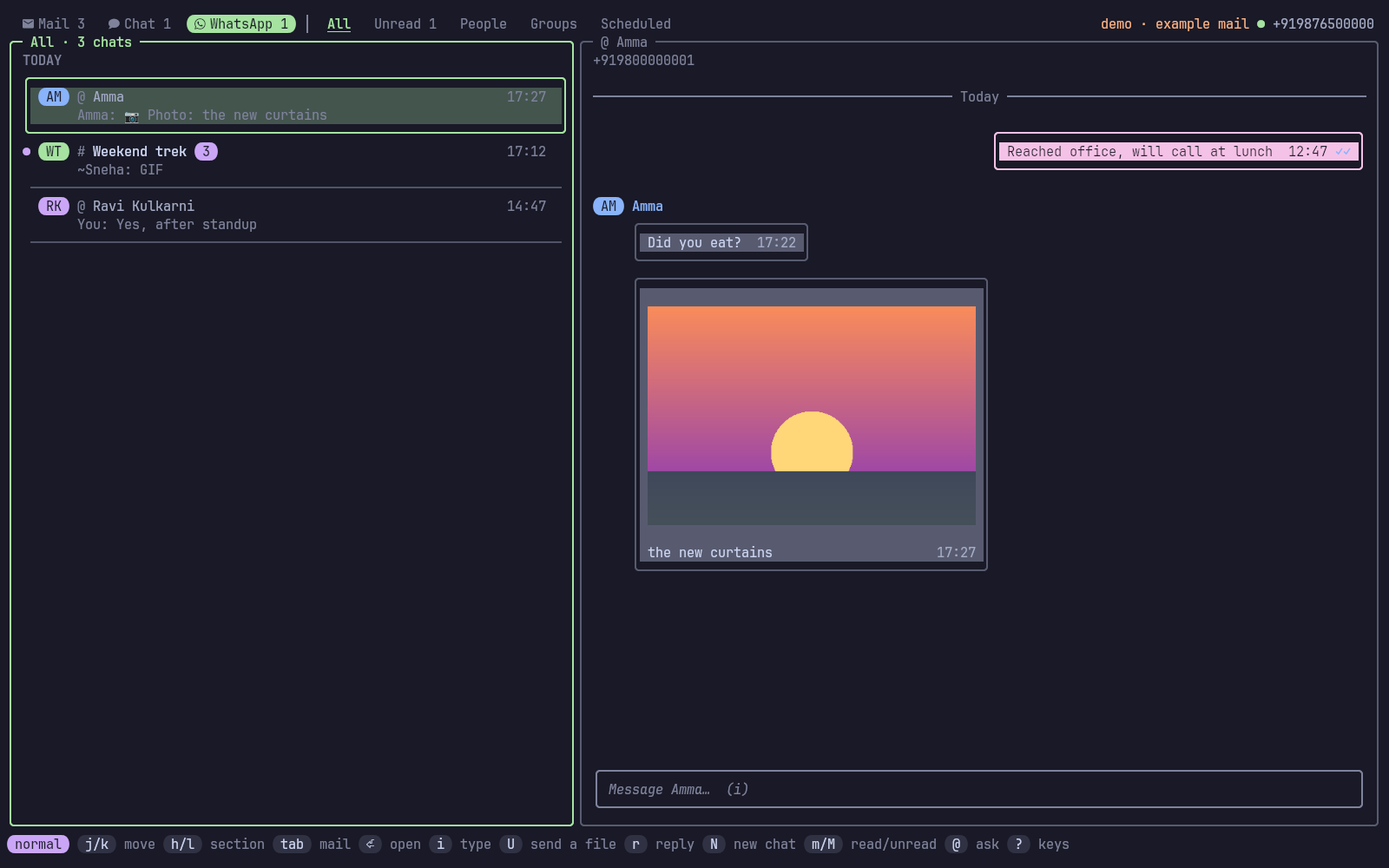
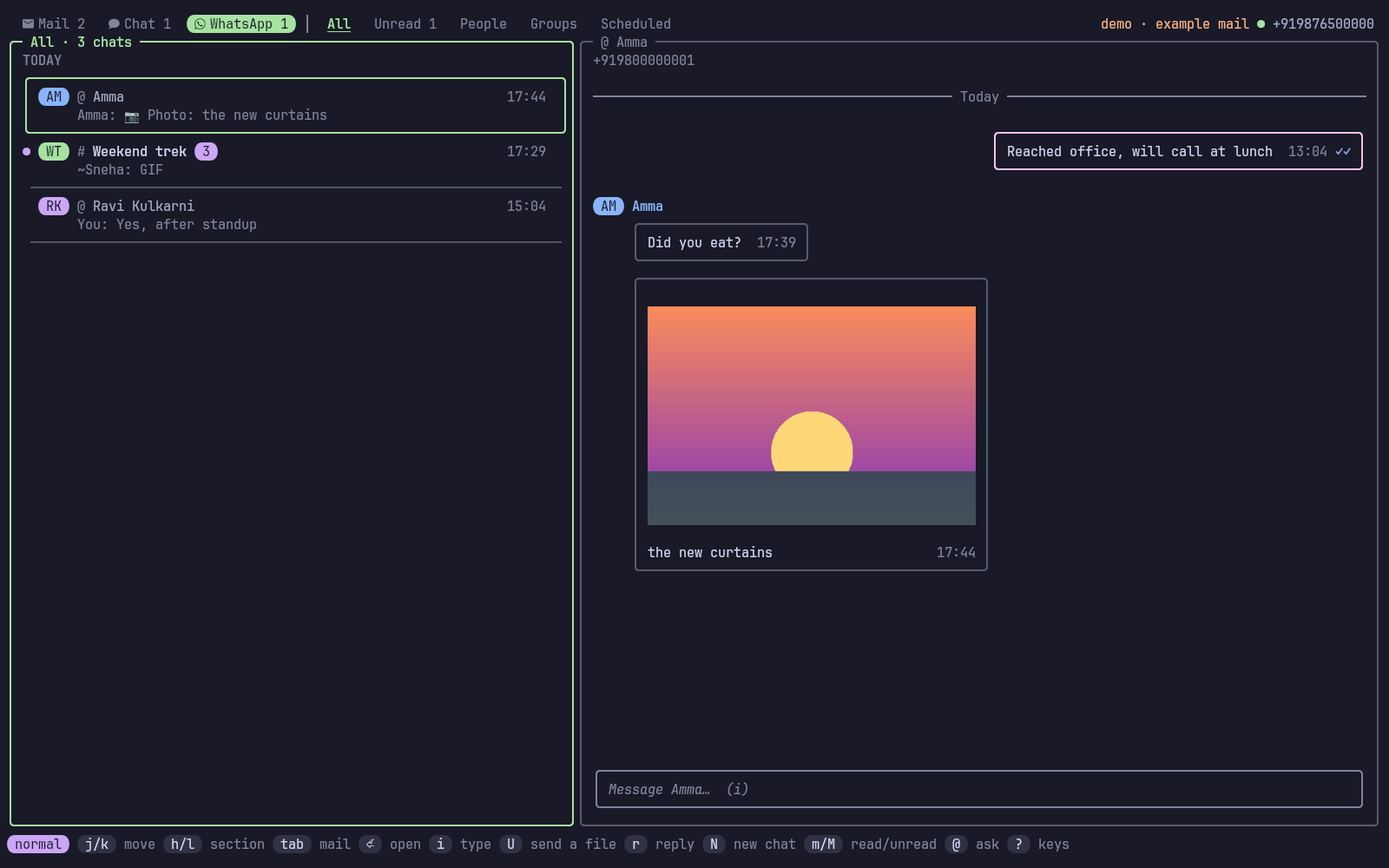
v0.4.3: outlines only, no colour fill on bubbles or the picked row

Changed region(s): [[0.4375, 0.248, 0.7188, 0.651], [0.0, 0.093, 0.4062, 0.155], [0.7188, 0.155, 1.0, 0.186]]

diff --git a/docs/changelog.html b/docs/changelog.html
@@ -19,8 +19,8 @@
 <a class="brand" href="index.html"><img src="assets/logo.svg" alt=""><span>sandesh <small>संदेश</small></span></a>
 <nav><a href="index.html" class="">Overview</a><a href="changelog.html" class="on">Changelog</a><a href="adr/index.html" class=" hide">Decisions</a><a class="gh" href="https://github.com/Theyashsawarkar/sandesh">GitHub ↗</a></nav></div></header>
 
-<div class="wrap"><aside class="toc"><b>On this page</b><a class="l2" href="#v042">v0.4.2</a><a class="l2" href="#v041">v0.4.1</a><a class="l2" href="#v040">v0.4.0</a><a class="l2" href="#v030">v0.3.0</a><a class="l2" href="#v020">v0.2.0</a><a class="l2" href="#v010">v0.1.0</a></aside><article>
-<h2>Changelog</h2><p>Every change to sandesh, newest first. Releases are git tags (<a href="https://github.com/Theyashsawarkar/sandesh/tags">all tags</a>, <a href="https://github.com/Theyashsawarkar/sandesh/releases">GitHub releases</a>); the source of this page is <a href="https://github.com/Theyashsawarkar/sandesh/blob/main/CHANGELOG.md">CHANGELOG.md</a>.</p><section class="release"><h2 id="v042">v0.4.2<span class="date">2026-11-02</span><a class="tag" href="https://github.com/Theyashsawarkar/sandesh/releases/tag/v0.4.2">release ↗</a></h2><ul><li><strong>Really rounded</strong>: bubbles and the picked list row get rounded borders (╭ ╮ ╰ ╯) in their colour; the half-block corners of v0.4.1 were too small to read as round.</li></ul></section><section class="release"><h2 id="v041">v0.4.1<span class="date">2026-11-02</span><a class="tag" href="https://github.com/Theyashsawarkar/sandesh/releases/tag/v0.4.1">release ↗</a></h2><ul><li><strong>Fixed: sending files on WhatsApp</strong>: <code>U</code> said "files isn't on WhatsApp yet" (a leftover guard); it sends now, and <code>v</code> / <code>V</code> open and save WhatsApp files. The key bar shows <code>U send a file</code>.</li><li><strong>Rounded</strong>: one-line messages are pills, longer ones rounded blocks; the picked list row is rounded too, and keeps its colours (name capsules showed as dark blobs on it).</li><li><strong>Switching places</strong>: <code>Shift+Tab</code> goes back (Mail ← Chat ← WhatsApp), <code>Alt+m</code> / <code>Alt+c</code> / <code>Alt+w</code> go straight to one.</li><li><strong>Picking several, marking all read</strong>: <code>x</code> picks chats too, <code>Ctrl+x</code> picks the whole list (again clears), <code>m</code> / <code>M</code> act on what's picked, and <code>Alt+r</code> marks everything in the list read.</li></ul></section><section class="release"><h2 id="v040">v0.4.0<span class="date">2026-11-02</span><a class="tag" href="https://github.com/Theyashsawarkar/sandesh/releases/tag/v0.4.0">release ↗</a></h2><ul><li><strong>Filled bubbles</strong>: chat and WhatsApp messages are filled blocks, yours in the accent colour, with the time and ticks inside; one name per run.</li><li><strong>One panel for the lists</strong>: mail, chat and WhatsApp rows divided by hairlines, the picked one filled in the tab's colour (<code>list_style</code>, replacing <code>chat_list</code>; <code>chat_list = &quot;cards&quot;</code> still works).</li><li><strong>Mail threads fold</strong>: read messages to one line, a long run to one line in all.</li><li><strong>One frame for the message box</strong>: the reply and the files go inside it.</li><li><strong>A clearer approval</strong>: "Claude Code wants to send a mail to …", the reason as a badge, the agent's own <code>why</code> (new on <code>mail_send</code>, <code>chat_send</code> and <code>whatsapp_send</code>) and <code>y send in 10s</code>.</li></ul></section><section class="release"><h2 id="v030">v0.3.0<span class="date">2026-11-02</span><a class="tag" href="https://github.com/Theyashsawarkar/sandesh/releases/tag/v0.3.0">release ↗</a></h2><ul><li><strong>Screenshots</strong> in the README and on the website (from <code>sandesh demo</code>).</li><li><strong>Ticks</strong>: ✓ sent, ✓✓ delivered and blue ✓✓ read beside your WhatsApp messages, from the phone's receipts and its history.</li><li><strong>Paste a screenshot</strong>: <code>Ctrl+v</code> while typing attaches a copied image; files about to go show as small previews above the box.</li><li><strong>Pictures full size</strong>: <code>Space</code> (or <code>Enter</code>) on a picked photo or GIF fills the screen; <code>h</code>/<code>l</code> go through the chat's pictures.</li><li><strong>Compact chat list</strong>: two rows per chat instead of a box, so about twice as many fit; <code>chat_list = &quot;cards&quot;</code> brings the boxes back.</li><li><strong>The undo window where you look</strong>: a message counting down to send, or waiting for approval, shows under the conversation; <code>z</code> cancels the open chat's own first.</li><li><strong>Clearer</strong>: the unread count sits on Unread, not All; the list title says "chats"; a one-to-one chat shows the number, not "You, Amma · 2 people"; the hint under the message box, which repeated the key bar, is gone.</li></ul>
+<div class="wrap"><aside class="toc"><b>On this page</b><a class="l2" href="#v043">v0.4.3</a><a class="l2" href="#v042">v0.4.2</a><a class="l2" href="#v041">v0.4.1</a><a class="l2" href="#v040">v0.4.0</a><a class="l2" href="#v030">v0.3.0</a><a class="l2" href="#v020">v0.2.0</a><a class="l2" href="#v010">v0.1.0</a></aside><article>
+<h2>Changelog</h2><p>Every change to sandesh, newest first. Releases are git tags (<a href="https://github.com/Theyashsawarkar/sandesh/tags">all tags</a>, <a href="https://github.com/Theyashsawarkar/sandesh/releases">GitHub releases</a>); the source of this page is <a href="https://github.com/Theyashsawarkar/sandesh/blob/main/CHANGELOG.md">CHANGELOG.md</a>.</p><section class="release"><h2 id="v043">v0.4.3<span class="date">2026-11-02</span><a class="tag" href="https://github.com/Theyashsawarkar/sandesh/releases/tag/v0.4.3">release ↗</a></h2><ul><li><strong>Quieter</strong>: bubbles and the picked list row lose their colour fill: just a rounded outline, plain text, and the time dim inside the bubble.</li></ul></section><section class="release"><h2 id="v042">v0.4.2<span class="date">2026-11-02</span><a class="tag" href="https://github.com/Theyashsawarkar/sandesh/releases/tag/v0.4.2">release ↗</a></h2><ul><li><strong>Really rounded</strong>: bubbles and the picked list row get rounded borders (╭ ╮ ╰ ╯) in their colour; the half-block corners of v0.4.1 were too small to read as round.</li></ul></section><section class="release"><h2 id="v041">v0.4.1<span class="date">2026-11-02</span><a class="tag" href="https://github.com/Theyashsawarkar/sandesh/releases/tag/v0.4.1">release ↗</a></h2><ul><li><strong>Fixed: sending files on WhatsApp</strong>: <code>U</code> said "files isn't on WhatsApp yet" (a leftover guard); it sends now, and <code>v</code> / <code>V</code> open and save WhatsApp files. The key bar shows <code>U send a file</code>.</li><li><strong>Rounded</strong>: one-line messages are pills, longer ones rounded blocks; the picked list row is rounded too, and keeps its colours (name capsules showed as dark blobs on it).</li><li><strong>Switching places</strong>: <code>Shift+Tab</code> goes back (Mail ← Chat ← WhatsApp), <code>Alt+m</code> / <code>Alt+c</code> / <code>Alt+w</code> go straight to one.</li><li><strong>Picking several, marking all read</strong>: <code>x</code> picks chats too, <code>Ctrl+x</code> picks the whole list (again clears), <code>m</code> / <code>M</code> act on what's picked, and <code>Alt+r</code> marks everything in the list read.</li></ul></section><section class="release"><h2 id="v040">v0.4.0<span class="date">2026-11-02</span><a class="tag" href="https://github.com/Theyashsawarkar/sandesh/releases/tag/v0.4.0">release ↗</a></h2><ul><li><strong>Filled bubbles</strong>: chat and WhatsApp messages are filled blocks, yours in the accent colour, with the time and ticks inside; one name per run.</li><li><strong>One panel for the lists</strong>: mail, chat and WhatsApp rows divided by hairlines, the picked one filled in the tab's colour (<code>list_style</code>, replacing <code>chat_list</code>; <code>chat_list = &quot;cards&quot;</code> still works).</li><li><strong>Mail threads fold</strong>: read messages to one line, a long run to one line in all.</li><li><strong>One frame for the message box</strong>: the reply and the files go inside it.</li><li><strong>A clearer approval</strong>: "Claude Code wants to send a mail to …", the reason as a badge, the agent's own <code>why</code> (new on <code>mail_send</code>, <code>chat_send</code> and <code>whatsapp_send</code>) and <code>y send in 10s</code>.</li></ul></section><section class="release"><h2 id="v030">v0.3.0<span class="date">2026-11-02</span><a class="tag" href="https://github.com/Theyashsawarkar/sandesh/releases/tag/v0.3.0">release ↗</a></h2><ul><li><strong>Screenshots</strong> in the README and on the website (from <code>sandesh demo</code>).</li><li><strong>Ticks</strong>: ✓ sent, ✓✓ delivered and blue ✓✓ read beside your WhatsApp messages, from the phone's receipts and its history.</li><li><strong>Paste a screenshot</strong>: <code>Ctrl+v</code> while typing attaches a copied image; files about to go show as small previews above the box.</li><li><strong>Pictures full size</strong>: <code>Space</code> (or <code>Enter</code>) on a picked photo or GIF fills the screen; <code>h</code>/<code>l</code> go through the chat's pictures.</li><li><strong>Compact chat list</strong>: two rows per chat instead of a box, so about twice as many fit; <code>chat_list = &quot;cards&quot;</code> brings the boxes back.</li><li><strong>The undo window where you look</strong>: a message counting down to send, or waiting for approval, shows under the conversation; <code>z</code> cancels the open chat's own first.</li><li><strong>Clearer</strong>: the unread count sits on Unread, not All; the list title says "chats"; a one-to-one chat shows the number, not "You, Amma · 2 people"; the hint under the message box, which repeated the key bar, is gone.</li></ul>
 <ul><li><strong>Photos, GIFs and files on WhatsApp</strong>: they show in the conversation (on kitty as real pictures, in tmux popups too, and GIFs play; elsewhere as coloured blocks; the <code>images</code> option chooses), and <code>Ctrl+o</code> while typing or <code>U</code> sends them, with the text as the first file's caption.</li><li><strong>Link WhatsApp from its tab</strong>: <code>L</code> shows the QR code, <code>P</code> a phone code, and a bar follows the sync, with no separate terminal.</li><li><strong><code>send_policy = &quot;trust&quot;</code> and <code>ask_first</code></strong>: agents send without asking unless you told them to ask, after an undo window with a notification that can cancel it (ADR 6). The approval screen is redesigned.</li><li><strong>The chat box grows</strong>: long messages wrap and the box gets taller, and Enter sends and keeps you typing. The active tab is a filled pill in its own colour.</li><li><strong>Fixed</strong>: WhatsApp names and mentions showing as numbers; <code>@</code> and the AI keys not finding <code>claude</code> or <code>sandesh</code> from a tmux popup.</li></ul>
 <ul><li><strong>WhatsApp</strong>: <code>sandesh whatsapp link</code> links your WhatsApp as a device (QR code, or <code>--phone</code> for a code to type on the phone), and its chats become a third tab (<code>Tab</code>: Mail → Chat → WhatsApp) with unread counts in <code>sandesh status</code> and the tmux segment, notifications, read receipts and quoted replies. <code>sandesh whatsapp list|read|send|unlink</code> on the command line, <code>whatsapp_chats</code>, <code>whatsapp_read</code> and <code>whatsapp_send</code> for agents. Every send goes through the outbox; an agent's always waits for you, and WhatsApp sends are capped at <code>whatsapp_per_hour</code> (30). Without linking, <code>whatsapp send</code> opens WhatsApp's click-to-chat page with the text typed in instead. Linking isn't allowed by WhatsApp's terms (see the README's WhatsApp section and ADR 5).</li></ul>
 <ul><li><strong>HTML mail, for tables and the like</strong>: <code>mail_send</code> and <code>mail_draft</code> take an optional <code>html</code> (and <code>sandesh mail send</code> an <code>--html FILE</code>). It goes out beside the plain text as <code>multipart/alternative</code>, so mail apps show the HTML and the plain text is still there for those that don't; a reply quotes the thread in the HTML too. Plain text alone can't make a table Gmail shows as one.</li></ul></section><section class="release"><h2 id="v020">v0.2.0<span class="date">2026-10-28</span><a class="tag" href="https://github.com/Theyashsawarkar/sandesh/releases/tag/v0.2.0">release ↗</a></h2><ul><li><strong><code>--tab chat</code></strong>: <code>sandesh --tab chat</code> (and <code>sandesh --popup --tab chat</code>) opens the screen on the chat tab, so a status bar's chat count can open chat and its mail count mail.</li></ul>

diff --git a/docs/index.html b/docs/index.html
@@ -24,8 +24,8 @@
 <div class="sa">संदेश <span>· “message”</span></div>
 <p class="lead">Gmail and Google Chat without leaving the terminal, with an agent that can read, draft and send for you.</p>
 <div class="cta"><a class="btn primary" href="#install">Install</a><a class="btn" href="https://github.com/Theyashsawarkar/sandesh">GitHub ↗</a>
-<a class="btn" href="changelog.html">What's new in v0.4.2</a></div>
-<div class="meta"><span><b>v0.4.2</b> latest</span><span><b>6</b> releases</span><span><b>6</b> decisions recorded</span><span><b>MIT</b> license</span></div>
+<a class="btn" href="changelog.html">What's new in v0.4.3</a></div>
+<div class="meta"><span><b>v0.4.3</b> latest</span><span><b>7</b> releases</span><span><b>6</b> decisions recorded</span><span><b>MIT</b> license</span></div>
 </div><img class="logo" src="assets/logo.svg" alt="sandesh logo"></div></section>
 <div class="wrap"><aside class="toc"><b>On this page</b><a class="l2" href="#features">Features</a><a class="l2" href="#install">Install</a><a class="l2" href="#getting-started">Getting started</a><a class="l2" href="#the-screen">The screen</a><a class="l2" href="#keys">Keys</a><a class="l2" href="#sending-later">Sending later</a><a class="l2" href="#sent-mail">Sent mail</a><a class="l2" href="#older-mail">Older mail</a><a class="l2" href="#files">Files</a><a class="l2" href="#whatsapp">WhatsApp</a><a class="l2" href="#claude-and-other-agents">Claude and other agents</a><a class="l2" href="#sending-safely">Sending safely</a><a class="l2" href="#command-line">Command line</a><a class="l2" href="#using-it-inside-tmux">Using it inside tmux</a><a class="l2" href="#configuration">Configuration</a><a class="l2" href="#files-and-environment">Files and environment</a><a class="l2" href="#how-it-works">How it works</a><a class="l2" href="#troubleshooting">Troubleshooting</a><a class="l2" href="#contributing">Contributing</a><a class="l2" href="#roadmap">Roadmap</a><a class="l2" href="#license">License</a></aside><article>
 <p align="center">
@@ -63,8 +63,8 @@ sandesh doctor                         # checks all of it</code></pre>
 <p><code>sandesh</code> opens the screen.</p>
 <h2 id="the-screen"><a class="anchor" href="#the-screen">#</a>The screen</h2>
 <p align="center">
-  <img alt="A Google Chat conversation in filled bubbles: yours on the right in the accent colour, theirs on the left with a quoted reply, a reaction and the time inside" src="assets/screenshots/chat.png" width="49%">
-  <img alt="The WhatsApp tab: the chat list on one panel with the picked chat filled green, filled message bubbles with a photo inside, and read ticks on your message" src="assets/screenshots/whatsapp.png" width="49%">
+  <img alt="A Google Chat conversation in rounded bubbles: yours on the right outlined in the accent colour, theirs on the left with a quoted reply, a reaction and the time inside" src="assets/screenshots/chat.png" width="49%">
+  <img alt="The WhatsApp tab: the chat list on one panel with the picked chat in a green rounded card, rounded message bubbles with a photo inside, and read ticks on your message" src="assets/screenshots/whatsapp.png" width="49%">
 </p>
 <p align="center"><sub>All screenshots use <code>sandesh demo</code>: made-up mail, chats and people.</sub></p>
 <p>Sections on top, the list on the left, the selected thread or space on the right, keys at the bottom.</p>
@@ -81,8 +81,8 @@ sandesh doctor                         # checks all of it</code></pre>
 <div class="table"><table><thead><tr><th>Key</th><th>Does</th></tr></thead><tbody><tr><td><code>?</code></td><td>Show every key</td></tr><tr><td><code>q</code> / <code>Esc</code></td><td>Go back, then quit</td></tr></tbody></table></div>
 <p><strong>Keys</strong> (<code>?</code>): a window in the middle of the screen with every key, grouped, and a filter: type <code>send</code> and only the keys that send stay.</p>
 <p><strong>Picking files</strong> (<code>Ctrl+o</code> in a mail, <code>+</code> when reviewing, <code>U</code> in chat): a window listing the files under the folder you're in (<code>Ctrl+r</code> switches to home or Downloads, <code>Ctrl+h</code> shows hidden ones). Type to narrow it down; the right side previews the highlighted file: text with line numbers, an image's size (the picture itself with <code>chafa</code> installed), a PDF's first page (with <code>pdftotext</code>). <code>Tab</code> picks several, <code>Enter</code> adds them.</p>
-<p><strong>The conversation</strong> is drawn as filled bubbles, as on a phone: theirs on the left on the surface colour, their name once per run of messages, yours on the right in the accent colour, each with its time (and your ticks) at the bottom right inside it. A reply's quote sits inside its bubble, files (<code>v</code> opens one) and numbered links (<code>o</code> opens one) inside too, reactions as chips underneath and "(edited)" where a message was changed.</p>
-<p><strong>The lists</strong> (mail, chat, WhatsApp) are rows on one panel, divided by hairlines, the picked one filled in the tab's colour; <code>list_style = &quot;cards&quot;</code> draws a box around each instead. <strong>In a mail thread</strong> read messages fold to one line each, and a run of four or more to a single "⋯ N earlier messages" line (<code>Enter</code> opens them all). <strong>The message box</strong> holds what you're replying to and the files you're sending inside its frame, above the text. A red <strong>new</strong> line marks where what you haven't read starts, and the chat opens there. The top line lists who's in it. The chat list is grouped (pinned, today, earlier); a chat that mentions you shows a peach <code>@N</code> badge.</p>
+<p><strong>The conversation</strong> is drawn as rounded bubbles, as on a phone: theirs on the left with a soft outline, their name once per run of messages, yours on the right outlined in the accent colour, each with its time (and your ticks) at the bottom right inside it. A reply's quote sits inside its bubble, files (<code>v</code> opens one) and numbered links (<code>o</code> opens one) inside too, reactions as chips underneath and "(edited)" where a message was changed.</p>
+<p><strong>The lists</strong> (mail, chat, WhatsApp) are rows on one panel, divided by hairlines, the picked one a rounded card in the tab's colour; <code>list_style = &quot;cards&quot;</code> draws a box around each instead. <strong>In a mail thread</strong> read messages fold to one line each, and a run of four or more to a single "⋯ N earlier messages" line (<code>Enter</code> opens them all). <strong>The message box</strong> holds what you're replying to and the files you're sending inside its frame, above the text. A red <strong>new</strong> line marks where what you haven't read starts, and the chat opens there. The top line lists who's in it. The chat list is grouped (pinned, today, earlier); a chat that mentions you shows a peach <code>@N</code> badge.</p>
 <p><strong>Replying to a message in chat</strong>: <code>Enter</code> (or <code>2</code>) on a chat moves into the conversation; <code>j</code> / <code>k</code> now pick a message (highlighted) instead of scrolling. <code>r</code> replies to the picked one: the message box shows "↩ replying to …", and the reply quotes it the way Google Chat's own reply does, right in the conversation. From the list, <code>r</code> replies to the latest message from someone else. <code>Enter</code> on a reply jumps to the message it quotes (fetching earlier messages if it's older than what's shown); on a reply to a reply, Enter again keeps going back; <code>Backspace</code> retraces the way you came. Replies others send that quote a message show the quote above them (<code>❝ You: …</code>).</p>
 <p><strong>Starting a conversation</strong> (<code>N</code> in chat): type a name and pick the person (people from chat, contacts from mail, and your Workspace directory); <code>Tab</code> adds another for a group. With two or more, Enter first asks for a name: with one the group is a named space everyone sees, without one a group chat (name it later with <code>n</code>). If your sign-in predates the permission starting chats needs, the window says so and Enter signs you in again in the browser, then carries on. sandesh opens the DM you already have with them, fetching the earlier messages if this machine hasn't seen them, or starts a new one, and puts you in the message box. The chat search (<code>/</code>) finds conversations and people by name too, not just words in messages: Enter on a person opens your conversation with them. Claude can do the same: <code>chat_send</code> takes <code>to</code> (email addresses) instead of a space.</p>
 <p><strong>Renaming a chat</strong> (<code>n</code>): a space is renamed on Google Chat, so everyone sees the new name; a group chat gets its name on Google Chat too (that makes it a space, with the same people and messages) (Google lets only its managers do it; sandesh asks for the permission when you sign in, so an older sign-in needs <code>sandesh auth add &lt;account&gt;</code> once). DMs and unnamed group chats can't be named on Google; the name you give them stays on this machine. An empty name goes back to the default.</p>
@@ -152,7 +152,7 @@ chat_interval = &quot;30s&quot;       # and Google Chat
 initial_days  = 30          # how far back the first sync goes
 max_threads   = 150         # at most this many threads on the first sync (older mail: search)
 notify        = true        # desktop notifications for new mail and DMs
-list_style    = &quot;panel&quot;  # the lists: panel (rows, the picked one filled) or cards (a box each)
+list_style    = &quot;panel&quot;  # the lists: panel (rows, the picked one a card) or cards (a box each)
 images        = &quot;auto&quot; # photos in the screen: auto (kitty graphics, else coloured blocks), kitty, blocks, off
 whatsapp_per_hour = 30      # at most this many WhatsApp sends an hour
 ai_command    = [&quot;claude&quot;, &quot;-p&quot;]   # what @, S, D and T run

diff --git a/internal/tui/cards.go b/internal/tui/cards.go
@@ -74,13 +74,8 @@ func (m Model) listItem(lines []string, w int, border string, sel, dot bool) []s
 		row := gutter + fit(l, w+2)
 		if sel {
 			row = " " + fit(l, w+2) // the border takes the gutter's place
-			// keep each part's own colours (name capsules, badges) on a
-			// tint of the tab's colour
-			on := lipgloss.NewStyle().Background(lipgloss.Color(m.selFill()))
-			seq := strings.TrimSuffix(on.Render(" "), " \x1b[0m")
-			row = seq + strings.ReplaceAll(row, "\x1b[0m", "\x1b[0m"+seq) + on.Render(strings.Repeat(" ", max(0, w+2-ansi.StringWidth(row)))) + "\x1b[0m" // no bleed into the pane
 			edge := lipgloss.NewStyle().Foreground(lipgloss.Color(m.selEdge()))
-			row = edge.Render("│") + row + edge.Render("│")
+			row = edge.Render("│") + row + strings.Repeat(" ", max(0, w+2-ansi.StringWidth(row))) + edge.Render("│")
 		}
 		out = append(out, row)
 	}
@@ -120,15 +115,6 @@ func (m Model) selEdge() string {
 		return m.styles.c.Muted
 	}
 	return m.partColor()
-}
-
-// selFill is the picked list row's background: a dark tint of the tab's
-// colour while the list has the focus, the surface colour when not.
-func (m Model) selFill() string {
-	if m.focus != 0 {
-		return m.styles.c.Surface
-	}
-	return blend(m.partColor(), m.styles.c.Base, 0.28)
 }
 
 func fg(c string) lipgloss.Style { return lipgloss.NewStyle().Foreground(lipgloss.Color(c)) }
@@ -294,108 +280,45 @@ func (m Model) tickText(level int) string {
 	return map[int]string{1: " ✓", 2: " ✓✓", 3: " ✓✓"}[level]
 }
 
-// fillBubble draws a message as a filled block: yours in the accent colour
-// with dark text, theirs on the surface colour; the time (and your ticks)
-// sit at the bottom right inside it. raw lines (pictures) keep their own
-// colours. read colours your ticks blue, as on the phone.
-func (m Model) fillBubble(lines []string, raw map[int]bool, maxW int, mine, sel bool, stamp string, read bool) (out []string) {
+// chatBubble draws a message in a rounded outline: a soft border for
+// theirs, the accent for yours, brighter when picked. The time (and your
+// ticks, blue once read) sit at the bottom right inside it.
+func (m Model) chatBubble(lines []string, maxW int, mine, sel bool, stamp string, read bool) []string {
 	s := m.styles
-	bg, fgc := s.c.Border, s.c.Text // the surface colour is too close to the background
+	color := s.c.Border
 	if mine {
-		bg, fgc = s.c.Accent2, s.c.Base
+		color = s.c.Accent2
 	}
 	if sel {
-		bg, fgc = s.c.Accent, s.c.Base
+		color = s.c.Accent
 	}
-	iw := 0
+	iw := ansi.StringWidth(stamp)
 	for _, l := range lines {
 		iw = max(iw, ansi.StringWidth(l))
 	}
-	iw = max(iw, ansi.StringWidth(stamp))
-	if last := len(lines) - 1; !raw[last] {
-		// room for the time beside the last line, as on the phone
-		iw = max(iw, ansi.StringWidth(lines[last])+2+ansi.StringWidth(stamp))
-	}
-	iw = min(iw, maxW-2)
-	on := lipgloss.NewStyle().Background(lipgloss.Color(bg))
-	text := on.Foreground(lipgloss.Color(fgc))
-	dim := on.Foreground(lipgloss.Color(fgc)) // on the accent: the dark text colour reads best
-	if !mine && !sel {
-		dim = on.Foreground(lipgloss.Color(s.c.Subtle))
-	}
-	tickStyle := dim
+	t := strings.TrimRight(stamp, " ✓")
+	ticks := s.muted.Render(strings.TrimPrefix(stamp, t))
 	if read {
-		tickStyle = on.Foreground(lipgloss.Color(s.c.Blue)).Bold(true)
+		ticks = s.blue.Render(strings.TrimPrefix(stamp, t))
 	}
-	// keep the background under styled text: every reset puts it back
-	bgSeq := strings.TrimSuffix(on.Render("x"), "x\x1b[0m")
-	if i := strings.Index(bgSeq, "x"); i >= 0 {
-		bgSeq = bgSeq[:i]
-	}
-	keep := func(l string) string {
-		return strings.ReplaceAll(strings.ReplaceAll(l, "\x1b[0m", "\x1b[0m"+bgSeq), "\x1b[m", "\x1b[m"+bgSeq)
-	}
-	cell := func(l string, i int) string {
-		switch {
-		case raw[i]:
-		case mine || sel:
-			l = text.Render(ansi.Strip(l)) // dark on the accent: one colour reads best
-		default:
-			l = keep(l)
-		}
-		l = ansi.Truncate(l, iw, "…")
-		return on.Render(" ") + bgSeq + l + on.Render(strings.Repeat(" ", max(0, iw-ansi.StringWidth(l))+1))
-	}
-	stampCell := func(left int) string {
-		t := strings.TrimRight(stamp, " ✓")
-		ticks := strings.TrimPrefix(stamp, t)
-		return dim.Render(strings.Repeat(" ", max(0, left))+t) + tickStyle.Render(ticks)
-	}
-	for i, l := range lines {
-		out = append(out, cell(l, i))
-	}
-	defer func() { out = m.rounded(out, bg, iw+2) }()
-	// the time on the last line if it fits there, else on its own line
 	sw := ansi.StringWidth(stamp)
+	stampText := s.muted.Render(t) + ticks
+	// the time beside the last line if it fits, else on its own line
 	last := len(lines) - 1
-	if lw := ansi.StringWidth(lines[last]); !raw[last] && lw+2+sw <= iw {
-		l := lines[last]
-		if mine || sel {
-			l = text.Render(ansi.Strip(l))
-		} else {
-			l = keep(l)
-		}
-		out[last] = on.Render(" ") + bgSeq + l + stampCell(iw-lw-sw) + on.Render(" ")
+	lw := ansi.StringWidth(lines[last])
+	picture := strings.ContainsAny(lines[last], "\U0010EEEE▀") // never beside a picture
+	beside := lw+2+sw <= maxW-4 && !picture
+	if beside {
+		iw = max(iw, lw+2+sw)
+	}
+	iw = min(iw, maxW-4)
+	body := append([]string{}, lines...)
+	if beside {
+		body[last] = lines[last] + strings.Repeat(" ", max(0, iw-lw-sw)) + stampText
 	} else {
-		out = append(out, on.Render(" ")+stampCell(iw-sw)+on.Render(" "))
+		body = append(body, strings.Repeat(" ", max(0, iw-sw))+stampText)
 	}
-	return out
-}
-
-// rounded frames a filled block of width w with a rounded border in its
-// colour (╭ ╮ ╰ ╯: the only corners a terminal draws round).
-func (m Model) rounded(block []string, bg string, w int) []string {
-	if len(block) == 0 {
-		return block
-	}
-	c := lipgloss.NewStyle().Foreground(lipgloss.Color(bg))
-	out := []string{c.Render("╭" + strings.Repeat("─", w) + "╮")}
-	for _, l := range block {
-		out = append(out, c.Render("│")+l+c.Render("│"))
-	}
-	return append(out, c.Render("╰"+strings.Repeat("─", w)+"╯"))
-}
-
-// blend mixes two "#rrggbb" colours, t of the first.
-func blend(a, b string, t float64) string {
-	var ar, ag, ab, br, bg, bb int
-	if len(a) != 7 || len(b) != 7 {
-		return a
-	}
-	fmt.Sscanf(a[1:], "%02x%02x%02x", &ar, &ag, &ab)
-	fmt.Sscanf(b[1:], "%02x%02x%02x", &br, &bg, &bb)
-	mix := func(x, y int) int { return int(float64(x)*t + float64(y)*(1-t)) }
-	return fmt.Sprintf("#%02x%02x%02x", mix(ar, br), mix(ag, bg), mix(ab, bb))
+	return bubble(body, iw+4, color, sel)
 }
 
 // ticks is WhatsApp's mark for how far your message got: ✓ sent,
@@ -961,7 +884,6 @@ func (m *Model) chatLines(w int) []string {
 			m.chatMsgLine[g.Name] = len(out)
 			sel := picking && i+k == m.chatSel
 			var lines []string
-			raw := map[int]bool{} // image lines: drawn as they are (their colour is the image)
 			if g.Quoted != "" {
 				who, what := "", "a message"
 				if q, ok := byName[g.Quoted]; ok {
@@ -977,10 +899,7 @@ func (m *Model) chatLines(w int) []string {
 			shown := map[int]bool{}
 			for fi, f := range g.Files {
 				if img := m.mediaLines(g.Account, g.Name, fi, f, bw-4); img != nil {
-					for _, l := range img {
-						raw[len(lines)] = true
-						lines = append(lines, l)
-					}
+					lines = append(lines, img...)
 					shown[fi] = true
 				}
 			}
@@ -1021,7 +940,7 @@ func (m *Model) chatLines(w int) []string {
 			if g.Mine {
 				stamp += m.tickText(g.Ticks)
 			}
-			box := m.fillBubble(lines, raw, bw, g.Mine, sel || g.Name == m.flashMsg, stamp, g.Mine && g.Ticks == 3)
+			box := m.chatBubble(lines, bw, g.Mine, sel || g.Name == m.flashMsg, stamp, g.Mine && g.Ticks == 3)
 			for _, l := range box {
 				if g.Mine {
 					out = append(out, padLeft(l, w))

diff --git a/internal/config/config.go b/internal/config/config.go
@@ -114,7 +114,7 @@ type Config struct {
 	// "blocks" or "off"
 	Images string `toml:"images"`
 	// ListStyle: how the lists draw an item: "panel" (rows on one panel,
-	// the picked one filled in the tab's colour) or "cards" (a box each)
+	// the picked one a rounded card in the tab's colour) or "cards" (a box each)
 	ListStyle string `toml:"list_style"`
 	// ChatList: the old name, from v0.3.0 ("cards" still means cards)
 	ChatList string `toml:"chat_list"`
@@ -287,7 +287,7 @@ nerd_font     = true   # round avatars (needs a Nerd Font, as most terminal setu
 older_page    = 10     # how many older threads j at the end of a list loads (+ / - change it there)
 max_threads   = 150    # at most this many threads on the first sync (older mail: search)
 notify        = true   # desktop notification for new mail and DMs
-list_style    = "panel"  # the lists: panel (rows, the picked one filled) or cards (a box each)
+list_style    = "panel"  # the lists: panel (rows, the picked one a card) or cards (a box each)
 images        = "auto" # photos in the screen: auto (kitty graphics, else coloured blocks), kitty, blocks, off
 whatsapp_per_hour = 30 # at most this many WhatsApp sends an hour (a linked device that sends a lot risks the account)
 ai_command    = ["claude", "-p"]   # what @, S, D and T run

diff --git a/internal/app/app.go b/internal/app/app.go
@@ -20,7 +20,7 @@ import (
 	"github.com/Theyashsawarkar/sandesh/internal/store"
 )
 
-const Version = "0.4.2"
+const Version = "0.4.3"
 
 type App struct {
 	Paths  config.Paths

diff --git a/README.md b/README.md
@@ -173,8 +173,8 @@ sandesh doctor                         # checks all of it
 ## The screen
 
 <p align="center">
-  <img alt="A Google Chat conversation in filled bubbles: yours on the right in the accent colour, theirs on the left with a quoted reply, a reaction and the time inside" src="assets/screenshots/chat.png" width="49%">
-  <img alt="The WhatsApp tab: the chat list on one panel with the picked chat filled green, filled message bubbles with a photo inside, and read ticks on your message" src="assets/screenshots/whatsapp.png" width="49%">
+  <img alt="A Google Chat conversation in rounded bubbles: yours on the right outlined in the accent colour, theirs on the left with a quoted reply, a reaction and the time inside" src="assets/screenshots/chat.png" width="49%">
+  <img alt="The WhatsApp tab: the chat list on one panel with the picked chat in a green rounded card, rounded message bubbles with a photo inside, and read ticks on your message" src="assets/screenshots/whatsapp.png" width="49%">
 </p>
 <p align="center"><sub>All screenshots use <code>sandesh demo</code>: made-up mail, chats and people.</sub></p>
 
@@ -310,15 +310,15 @@ right side previews the highlighted file: text with line numbers, an
 image's size (the picture itself with `chafa` installed), a PDF's first
 page (with `pdftotext`). `Tab` picks several, `Enter` adds them.
 
-**The conversation** is drawn as filled bubbles, as on a phone: theirs on
-the left on the surface colour, their name once per run of messages, yours
-on the right in the accent colour, each with its time (and your ticks) at
-the bottom right inside it. A reply's quote sits inside its bubble, files
+**The conversation** is drawn as rounded bubbles, as on a phone: theirs on
+the left with a soft outline, their name once per run of messages, yours on
+the right outlined in the accent colour, each with its time (and your
+ticks) at the bottom right inside it. A reply's quote sits inside its bubble, files
 (`v` opens one) and numbered links (`o` opens one) inside too, reactions as
 chips underneath and "(edited)" where a message was changed.
 
 **The lists** (mail, chat, WhatsApp) are rows on one panel, divided by
-hairlines, the picked one filled in the tab's colour; `list_style = "cards"`
+hairlines, the picked one a rounded card in the tab's colour; `list_style = "cards"`
 draws a box around each instead. **In a mail thread** read messages fold to
 one line each, and a run of four or more to a single "⋯ N earlier messages"
 line (`Enter` opens them all). **The message box** holds what you're
@@ -710,7 +710,7 @@ chat_interval = "30s"       # and Google Chat
 initial_days  = 30          # how far back the first sync goes
 max_threads   = 150         # at most this many threads on the first sync (older mail: search)
 notify        = true        # desktop notifications for new mail and DMs
-list_style    = "panel"  # the lists: panel (rows, the picked one filled) or cards (a box each)
+list_style    = "panel"  # the lists: panel (rows, the picked one a card) or cards (a box each)
 images        = "auto" # photos in the screen: auto (kitty graphics, else coloured blocks), kitty, blocks, off
 whatsapp_per_hour = 30      # at most this many WhatsApp sends an hour
 ai_command    = ["claude", "-p"]   # what @, S, D and T run

diff --git a/CHANGELOG.md b/CHANGELOG.md
@@ -2,6 +2,11 @@
 
 Newest first.
 
+## v0.4.3 -- 2026-11-02
+
+- **Quieter**: bubbles and the picked list row lose their colour fill: just
+  a rounded outline, plain text, and the time dim inside the bubble.
+
 ## v0.4.2 -- 2026-11-02
 
 - **Really rounded**: bubbles and the picked list row get rounded borders
